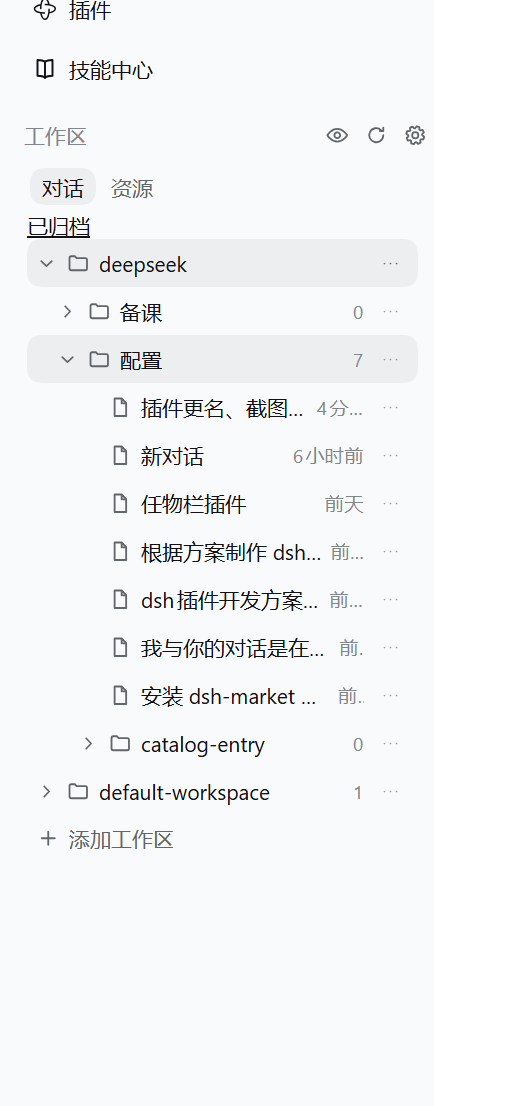
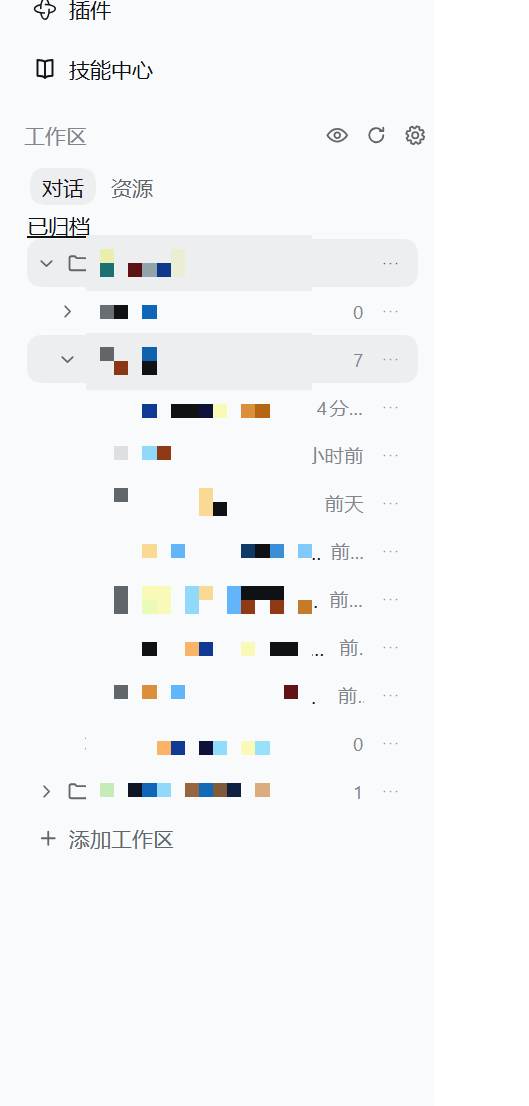
Redact the workspace names and conversation titles in the screenshot
screenshots.json declares this image and the market detail page renders it, and both READMEs embed it, so the real folder names and seven real conversation titles were public. Only the text column is mosaicked: icons, counts, relative times, tabs and controls stay, so the caption still describes what the picture shows.

Changed region(s): [[0.1512, 0.2152, 0.6049, 0.7378], [0.4537, 0.3382, 0.5444, 0.3996], [0.5444, 0.3996, 0.5747, 0.4304]]

diff --git a/README.md b/README.md
@@ -4,7 +4,7 @@ A Workspace Explorer for [DeepSeek Harness](https://github.com/anywhere-labs/dsh
 
 [中文说明](README.zh.md) | English
 
-![The plugin in the sidebar: a registered workspace expanded into conversation folders with counts, the Conversations/Resources tabs, and the eye, refresh and settings controls](assets/sidebar.png)
+![The plugin in the sidebar: a registered workspace expanded into conversation folders with counts, the Conversations/Resources tabs, and the eye, refresh and settings controls — folder names and conversation titles are redacted](assets/sidebar.png)
 
 > **Status: preview.** The automated suite passes, but live-runtime acceptance on every DSH build has not been done. See [Known limitations](#known-limitations) before you install.
 
@@ -31,27 +31,41 @@ The plugin ships with **no runtime dependencies** — only the `react` that DSH'
 
 ## Install
 
-Pick whichever route matches how you manage DSH. All of them end with a **Host restart** (or app restart) and a page refresh.
+Four routes — pick whichever matches how you manage DSH. All of them end with a **DSH restart (app and Host)** and a page refresh: Host routes do not hot-reload, so a refresh alone is not enough.
 
-### 1. Plugin market (easiest)
+> 💡 **Routes 2 and 3 need a `dsh` command on your machine.** Desktop-app users who get "command not found" should use **route 1** or **route 4** — neither needs a command line.
 
-If it is listed in the community catalog, open **Settings → Plugin market**, search for `dsh-multi-root-explorer`, and install it. The market handles the profile wiring and tells you when to restart.
+### 1. In-app plugin market (easiest, no command line)
 
-### 2. Command line
+Open **Settings → Plugin market**, search for `dsh-multi-root-explorer`, and install it. The market does the profile wiring and tells you when to restart. Before it is listed in the community catalog (nothing found), use route 2 or 4.
+
+### 2. npm package (command line; always the newest published version)
 
 ```sh
 dsh plugin --profile <your-profile> add dsh-multi-root-explorer
 ```
 
-From this repository instead of npm:
+Naming the **package** rather than a git URL makes the package manager take the newest published version, so future releases are picked up automatically. Current version: see the [npm page](https://www.npmjs.com/package/dsh-multi-root-explorer).
+
+### 3. From GitHub (no npm involved)
+
+**3a. Prebuilt tarball (always the latest release)**
+
+```sh
+dsh plugin --profile <your-profile> add https://github.com/Nethur-auro/dsh-multi-root-explorer/releases/latest/download/dsh-multi-root-explorer.tgz
+```
+
+`latest` is resolved at request time and the asset name deliberately carries no version, so this always points at the newest release and never rots. (The plugin has no build step — `lib/` is committed built output and `scripts` holds only `test` — so the prebuilt tarball and a source install contain the same thing.)
+
+**3b. Source (tracks `main`)**
 
 ```sh
 dsh plugin --profile <your-profile> add git+https://github.com/Nethur-auro/dsh-multi-root-explorer.git
 ```
 
-Replace `<your-profile>` with your profile name (`web` and `desktop` are common). Then restart `dsh web`.
+This installs the current commit on `main`. Every release here leaves `main` parked on its release commit, so the `main` head and the newest tag are always the same commit — **a source install is the latest release**. The trade-off is that package managers cache by commit, so upgrading means reinstalling.
 
-### 3. By hand
+### 4. By hand (no command line)
 
 The plugin manager ultimately edits your profile's `package.json` at
 `$DSH_HOME/profiles/<your-profile>/package.json` (default `~/.dsh`). Add the
@@ -60,7 +74,7 @@ dependency and the bundle entry:
 ```json
 {
   "dependencies": {
-    "dsh-multi-root-explorer": "git+https://github.com/Nethur-auro/dsh-multi-root-explorer.git"
+    "dsh-multi-root-explorer": "^0.1.4"
   },
   "dsh": {
     "profile": {
@@ -72,7 +86,7 @@ dependency and the bundle entry:
 
 Then install the profile's dependencies with `pnpm install` inside that
 directory and restart DSH. Doing this by hand is equivalent to what the plugin
-manager does, so prefer option 1 or 2 unless you have a reason not to.
+manager does, so prefer route 1 or 2 unless you have a reason not to.
 
 ### Verify it loaded
 

diff --git a/README.zh.md b/README.zh.md
@@ -4,7 +4,7 @@
 
 中文 | [English](README.md)
 
-![插件在侧边栏里的样子：已登记的工作区展开为带会话数量的文件夹，上方是「对话 / 资源」选项卡，以及小眼睛、刷新和设置按钮](assets/sidebar.png)
+![插件在侧边栏里的样子：已登记的工作区展开为带会话数量的文件夹，上方是「对话 / 资源」选项卡，以及小眼睛、刷新和设置按钮（目录名与会话标题已打码）](assets/sidebar.png)
 
 > **状态：预览版。** 自动化测试全部通过，但尚未在所有 DSH 版本上做完整实机验收。安装前请先看[已知限制](#已知限制)。
 
@@ -31,34 +31,48 @@
 
 ## 安装
 
-任选一种，最后都需要**重启 Host（或重启应用）**并刷新页面。
+四种方式，任选一种。**装完都要重启 DSH（重启应用与 Host），然后刷新页面** —— Host 路由不支持热重载，只刷新页面不够。
 
-### 1. 插件市场（最省事）
+> 💡 **方式 2、3 需要机器上有 `dsh` 命令。** 桌面应用版用户如果提示找不到命令，请用 **方式 1** 或 **方式 4** —— 这两条完全不依赖命令行。
 
-如果它已在社区目录中上架：打开**设置 → 插件市场**，搜索 `dsh-multi-root-explorer`，一键安装。市场会替你改好 profile 并提示何时重启。
+### 1. 应用内插件市场（最省事，不依赖命令行）
 
-### 2. 命令行
+打开**设置 → 插件市场**，搜索 `dsh-multi-root-explorer`，一键安装。市场会替你改好 profile 并提示何时重启。社区目录上架前（搜不到时）请用方式 2 或 4。
+
+### 2. npm 包（命令行；永远取最新已发布版本）
 
 ```sh
 dsh plugin --profile <你的 profile 名> add dsh-multi-root-explorer
 ```
 
-想直接从本仓库装：
+写**包名**而不是 git 地址：包管理器会取 npm 上的最新已发布版本，以后发新版自动跟上。当前版本号见 [npm 页面](https://www.npmjs.com/package/dsh-multi-root-explorer)。
+
+### 3. 从 GitHub 装（不经过 npm）
+
+**方式 A：预构建包（永远取最新发布版）**
+
+```sh
+dsh plugin --profile <你的 profile 名> add https://github.com/Nethur-auro/dsh-multi-root-explorer/releases/latest/download/dsh-multi-root-explorer.tgz
+```
+
+链接里的 `latest` 在**请求时**解析，而资源文件名刻意**不带版本号**，所以它永远指向最新一次发布、也不会随发版失效。（本插件没有构建步骤：`lib/` 是随仓库提交的成品，`scripts` 里只有 `test`，所以预构建包和源码装出来的东西一致。）
+
+**方式 B：源码（跟踪 `main` 分支）**
 
 ```sh
 dsh plugin --profile <你的 profile 名> add git+https://github.com/Nethur-auro/dsh-multi-root-explorer.git
 ```
 
-把 `<你的 profile 名>` 换成你自己的（常见的是 `web` 和 `desktop`），然后重启 `dsh web`。
+装的是仓库 `main` 的当前提交。本项目**每次发布都把 `main` 停在那个发布提交上**，所以 `main` HEAD 与最新 tag 始终是同一点 —— **源码装到的就是最新发布版**。代价是包管理器按 commit 缓存，升级要重装一次。
 
-### 3. 手动改 profile
+### 4. 手动改 profile（不依赖命令行）
 
 插件管理器本质上就是改你 profile 的 `$DSH_HOME/profiles/<你的 profile 名>/package.json`（默认 `~/.dsh`）。加依赖和 bundle 条目：
 
 ```json
 {
   "dependencies": {
-    "dsh-multi-root-explorer": "git+https://github.com/Nethur-auro/dsh-multi-root-explorer.git"
+    "dsh-multi-root-explorer": "^0.1.4"
   },
   "dsh": {
     "profile": {
